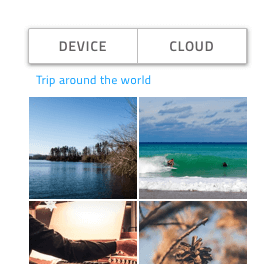
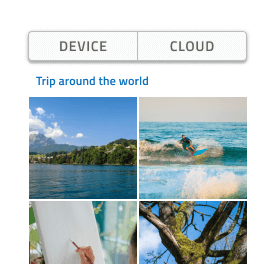
Add Interaction States, States, Images, rewrite text and replace images

diff --git a/en/components/button-group.md b/en/components/button-group.md
@@ -25,9 +25,21 @@ In Figma, the Button Group uses an auto layout allowing it to adjust accordingly
 
 <img class="responsive-img" src="../images/button-group_amount.png" srcset="../images/button-group_amount@2x.png 2x" />
 
-## Button Layout Template
+## Interaction States
 
-Each Button in the Button Group is a Flat Button and allows for the same degree of templating.
+Each button from the Button Group component supports both Enabled and Disabled variants that can also be Selected or not. In Figma you can switch between Enabled and Disabled and between Selected and not Selected variants using boolean operations from the properties panel.
+
+<img class="responsive-img" src="../images/button-group_interaction.png" srcset="../images/button-group_interaction@2x.png 2x" />
+
+## States
+
+In Figma the Enabled buttons in the Button Group component support Idle, Hover and Focused states which can be switched between by changing the State property. Disabled and Selected states can be switched on/off from a boolean properties and are applicable for all states of the buttons.
+
+<img class="responsive-img" src="../images/button-group_states.png" srcset="../images/button-group_states@2x.png 2x" />
+
+## Button Group Layout Template
+
+Each button from the button group supports flexible icon and label templates. In Figma, to show or hide an icon, you should select the Text & Icon Content type from the property panel and then use the Left Icon and Right Icon boolean properties. If you want to have an Icon Button, you can set the Content property to Icon.
 
 <img class="responsive-img" src="../images/button-group_text.png" srcset="../images/button-group_text@2x.png 2x" />
 <img class="responsive-img" src="../images/button-group_icon.png" srcset="../images/button-group_icon@2x.png 2x" />
